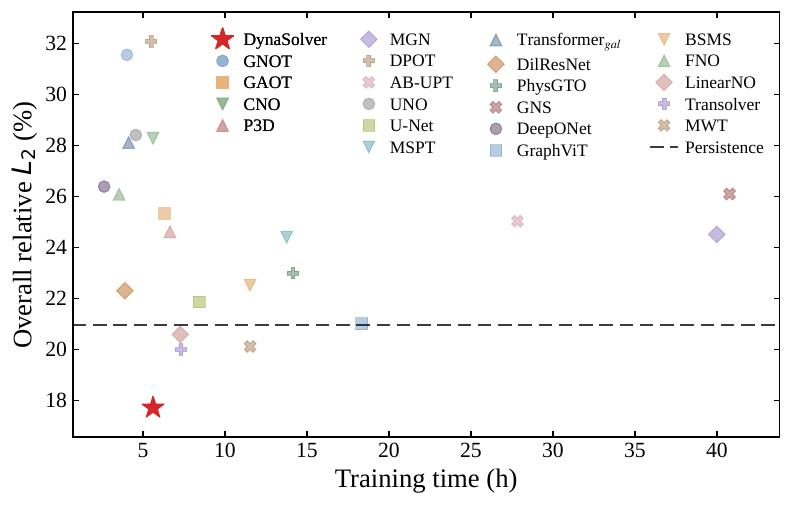
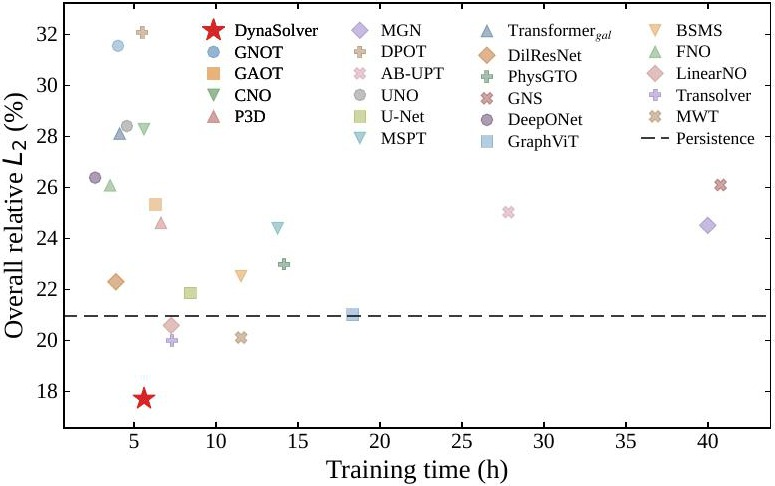
Polish nav, title, training and cost layouts, paragraph wrapping

diff --git a/static/css/style.css b/static/css/style.css
@@ -50,8 +50,7 @@ a:hover { text-decoration: underline; }
 }
 .nav-inner {
   height: 100%;
-  width: min(1240px, calc(100% - 2.5rem));
-  margin: 0 auto;
+  padding: 0 clamp(1rem, 2.2vw, 2rem);
   display: flex;
   align-items: center;
   gap: 1.5rem;
@@ -61,13 +60,12 @@ a:hover { text-decoration: underline; }
   font-weight: 700;
   font-size: 1.15rem;
   color: inherit;
-  opacity: 0;
-  transition: opacity .25s ease;
+  flex: none;
 }
-.topnav.solid .nav-brand { opacity: 1; }
 .nav-brand:hover { text-decoration: none; }
 .nav-links {
   margin-left: auto;
+  min-width: 0;
   display: flex;
   gap: 0.3rem;
   overflow-x: auto;
@@ -82,9 +80,10 @@ a:hover { text-decoration: underline; }
   white-space: nowrap;
   opacity: .88;
 }
-.nav-links a:hover { text-decoration: none; opacity: 1; background: rgba(255, 255, 255, .16); }
-.topnav.solid .nav-links a:hover { background: #f1f5f9; }
-.topnav.solid .nav-links a.on { color: var(--accent); background: var(--accent-soft); opacity: 1; }
+.nav-links a:hover { text-decoration: none; opacity: 1; }
+.nav-links a.on { opacity: 1; color: #7dd3c0; }
+.topnav.solid .nav-links a:hover { color: var(--accent); }
+.topnav.solid .nav-links a.on { color: var(--accent); }
 
 /* ---------- hero (page 1) ---------- */
 .hero {
@@ -124,7 +123,9 @@ a:hover { text-decoration: underline; }
   margin: 0;
   font-family: "Fraunces", Georgia, serif;
   font-size: clamp(3rem, 9vw, 6.2rem);
-  line-height: 1.08;
+  line-height: 1.12;
+  padding: 0 0.04em 0.16em;
+  margin-bottom: -0.1em;
   letter-spacing: -0.01em;
   background: linear-gradient(90deg, #a9e6c3 0%, #b0dcec 38%, #aecff5 62%, #c7a9f2 100%);
   -webkit-background-clip: text;
@@ -204,7 +205,7 @@ a:hover { text-decoration: underline; }
   font-family: "Fraunces", Georgia, serif;
   font-size: clamp(1.7rem, 3vw, 2.2rem);
 }
-.band p { margin: 0 0 0.9rem; }
+.band p { margin: 0 0 0.9rem; text-wrap: pretty; }
 .band p.lead { text-align: center; color: var(--muted); max-width: 760px; margin: -0.6rem auto 1.8rem; }
 #abstract p { text-align: justify; font-size: 1.06rem; }
 
@@ -283,8 +284,9 @@ a:hover { text-decoration: underline; }
   vertical-align: 1px;
 }
 
-.split.split-train { margin-top: 1.6rem; grid-template-columns: minmax(0, 1fr) minmax(0, 520px); align-items: stretch; }
-.split-train .split-copy p { font-size: 0.98rem; }
+.train-stack { margin-top: 1.6rem; }
+.train-stack .split-copy p { margin-bottom: 0.85rem; }
+.train-stack .abl { max-width: 980px; margin: 1.4rem auto 0; }
 .dilemma {
   padding: 0.7rem 1rem;
   border-left: 4px solid #f59e0b;
@@ -308,8 +310,8 @@ a:hover { text-decoration: underline; }
 }
 .abl-head, .abl-row {
   display: grid;
-  grid-template-columns: 11.5rem minmax(0, 1fr) minmax(0, 1fr);
-  gap: 0 1rem;
+  grid-template-columns: 14rem minmax(0, 1fr) minmax(0, 1fr);
+  gap: 0 2rem;
   align-items: center;
 }
 .abl-head {
@@ -324,7 +326,7 @@ a:hover { text-decoration: underline; }
 .abl-rows { flex: 1 1 auto; display: flex; flex-direction: column; }
 .abl-row {
   flex: 1 1 0;
-  padding: 0 0.8rem;
+  padding: 0.62rem 0.8rem;
   border-bottom: 1px solid var(--line);
   font-size: 0.95rem;
 }
@@ -335,8 +337,8 @@ a:hover { text-decoration: underline; }
 .abl-cell { display: flex; align-items: center; gap: 0.55rem; min-width: 0; }
 .abl-cell i {
   display: block;
-  height: 9px;
-  border-radius: 5px;
+  height: 11px;
+  border-radius: 6px;
   background: #b4bfc6;
   min-width: 3px;
   max-width: calc(100% - 3.3rem);
@@ -347,11 +349,11 @@ a:hover { text-decoration: underline; }
 .abl-row.ours .abl-cell b { color: var(--accent); font-weight: 800; }
 .abl-note { margin: 0.6rem 0 0 !important; font-size: 0.8rem; color: var(--muted); text-align: right; }
 
-.split.split-cost { align-items: stretch; row-gap: 0.2rem; }
-.split-cost .cost-img { align-self: center; }
-.split-cost .split-copy { justify-content: space-between; }
-.split-cost .split-copy p { margin: 0; }
-.split-cost .cost-cap { grid-column: 1; margin: 0.3rem 0 0; }
+.split.split-cost { align-items: stretch; gap: 1rem 2.2rem; }
+.cost-left { display: flex; flex-direction: column; justify-content: space-between; gap: 0.9rem; min-width: 0; }
+.split-cost .split-copy { justify-content: space-between; gap: 0.8rem; }
+.split-cost .split-copy p { margin: 0; font-size: 1.02rem; line-height: 1.75; }
+.cost-cap { margin: 0.7rem 0 0; text-align: left !important; }
 .stats { display: grid; grid-template-columns: repeat(3, minmax(0, 1fr)); gap: 0.7rem; }
 .stats div { padding: 0.65rem 0.8rem; border-radius: 12px; background: #f0fdfa; border: 1px solid #ccfbf1; }
 .stats b { display: block; font-family: "Fraunces", Georgia, serif; font-size: 1.45rem; color: var(--accent); line-height: 1.2; }
@@ -654,12 +656,13 @@ a:hover { text-decoration: underline; }
   .clips { grid-template-columns: 1fr; }
 }
 @media (max-width: 760px) {
-  .nav-brand { display: none; }
-  .nav-links { margin-left: 0; }
-  .nav-links a { padding: 0.35rem 0.55rem; font-size: 0.9rem; }
+  .nav-inner { gap: 0.6rem; }
+  #abstract p { text-align: left; }
+  .nav-brand { font-size: 1rem; }
+  .nav-links a { padding: 0.35rem 0.45rem; font-size: 0.86rem; }
   .band { padding: 3rem 0; }
   .hero .affiliations, .hero .note { font-size: 0.85rem; }
-  .cmp-scales, .fig-row, .split, .split.split-train, .split.split-cost, .points, .stats { grid-template-columns: 1fr; }
-  .abl-head, .abl-row { grid-template-columns: 8.5rem 1fr 1fr; }
+  .cmp-scales, .fig-row, .split, .split.split-cost, .points { grid-template-columns: 1fr; }
+  .abl-head, .abl-row { grid-template-columns: 8.5rem 1fr 1fr; gap: 0 0.8rem; }
   .cmp-frame { margin-left: 0; }
 }

diff --git a/index.html b/index.html
@@ -141,7 +141,7 @@
           <img class="figure" src="static/images/training.jpg" alt="Replay-Augmented Parallel Training" />
           <p class="caption">Figure 2. (a–b) sequential unroll and pushforward; (c) parallel teacher forcing; (d) our replay-augmented parallel training.</p>
 
-          <div class="split split-train">
+          <div class="train-stack">
             <div class="split-copy">
               <p class="dilemma">
                 Training an autoregressive solver is a case of <em>you can’t have your cake and eat it</em>:
@@ -265,28 +265,37 @@
         <div class="subblock">
           <h3>Accuracy versus training cost</h3>
           <div class="split split-cost">
-            <img class="figure cost-img" src="static/images/train_wall.jpg" alt="Training cost versus overall rollout error" />
+            <div class="cost-left">
+              <img class="figure cost-img" src="static/images/train_wall.jpg" alt="Training cost versus overall rollout error" />
+              <div class="stats">
+                <div><b>17.71%</b><span>lowest overall error</span></div>
+                <div><b>−11.4%</b><span>vs. next best, 19.99%</span></div>
+                <div><b>21</b><span>learned baselines</span></div>
+              </div>
+            </div>
             <div class="split-copy">
               <p>
-                Each point is one learned surrogate, placed by its training wall-clock time and its full-rollout error on
-                RoboCFD-4D Base. The lower-left corner is where a method is both accurate and cheap to train.
+                Each point in Figure 4 is one learned surrogate, placed by its training wall-clock time and its
+                full-rollout relative L<sub>2</sub> error on RoboCFD-4D Base. The dashed line marks Persistence,
+                a no-learning baseline that simply copies the last state.
               </p>
               <p>
-                <strong>DynaSolver reaches the lowest overall error</strong> while staying among the cheapest learned
-                methods to train, so it sits alone in that corner.
+                The lower-left corner is where a method is both accurate and cheap to train. Most baselines trade one
+                for the other: fast models land well above the Persistence line, while the accurate ones need far
+                longer training, often two to eight times as many hours.
               </p>
-              <div class="stats">
-                <div><b>17.71%</b><span>overall rollout error, best of all methods</span></div>
-                <div><b>−11.4%</b><span>relative to the next best, 19.99%</span></div>
-                <div><b>22</b><span>learned surrogates compared</span></div>
-              </div>
               <p>
-                Two design choices drive this. The token-space operator skips repeated point-space work at every layer,
-                and Replay-Augmented Parallel Training keeps dense, parallel updates instead of sequential unrolling.
+                <strong>DynaSolver sits alone in that corner.</strong> It reaches the lowest overall error, 17.71%,
+                while staying among the cheapest learned methods to train.
+              </p>
+              <p>
+                Two design choices drive this. The token-space operator skips repeated point-space work at every
+                layer, and Replay-Augmented Parallel Training keeps dense, parallel updates instead of slow sequential
+                unrolling.
               </p>
             </div>
-            <p class="caption cost-cap">Figure 4. Training wall-clock versus overall rollout error.</p>
           </div>
+          <p class="caption cost-cap">Figure 4. Training wall-clock versus overall rollout error on RoboCFD-4D Base.</p>
         </div>
 
         <div class="subblock" id="qualitative">
